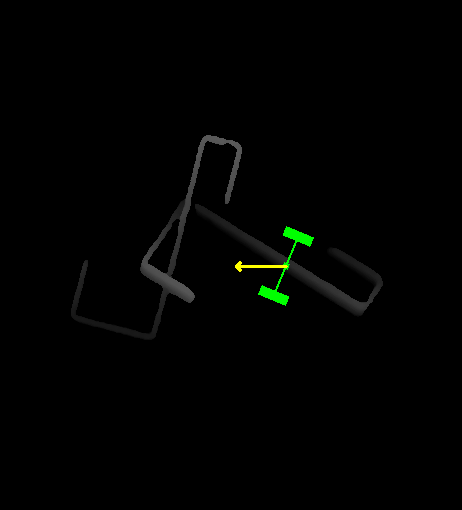
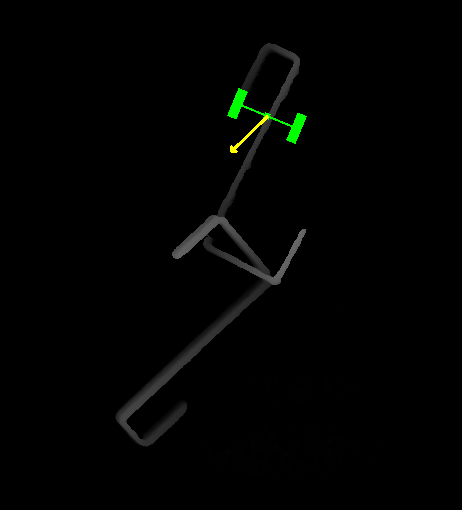
update

diff --git a/bpbot/motion/fling_actor.py b/bpbot/motion/fling_actor.py
@@ -4,7 +4,7 @@ from scipy import interpolate
 from bpbot import BinConfig
 
 class FlingActor(object):
-    def __init__(self, arm="R", filepath=None):
+    def __init__(self, filepath=None, arm='R'):
         
         cfg = BinConfig()
         cfgdata = cfg.data
@@ -18,7 +18,7 @@ class FlingActor(object):
         w_lft = (cfgdata["hand"]["left"]["open_width"]/2/1000) * 180 / math.pi
         w_rgt = (cfgdata["hand"]["right"]["open_width"]/2/1000) * 180 / math.pi
         
-        self.initpose = "0 0.80 JOINT_ABS 0 0 0 -10 -25.7 -127.5 0 0 0 23 -25.7 -127.5 -7 0 0 %.3f %.3f %.3f %.3f" % (w_rgt,-w_rgt,w_lft,-w_lft)
+        self.initpose = "0 3.00 JOINT_ABS 0 0 0 -10 -25.7 -127.5 0 0 0 23 -25.7 -127.5 -7 0 0 %.3f %.3f %.3f %.3f" % (w_rgt,-w_rgt,w_lft,-w_lft)
         self.bothhand_close = "0 0.50 JOINT_REL 0 0 0 0 0 0 0 0 0 0 0 0 0 0 0 %.3f %.3f %.3f %.3f"% (w_rgt,-w_rgt,w_lft,-w_lft) 
         self.lhand_close = "0 0.50 JOINT_REL 0 0 0 0 0 0 0 0 0 0 0 0 0 0 0 0 0 %.3f %.3f"% (w_lft,-w_lft) 
         self.rhand_close = "0 0.50 JOINT_REL 0 0 0 0 0 0 0 0 0 0 0 0 0 0 0 %.3f %.3f 0 0"% (w_rgt,-w_rgt) 
@@ -27,9 +27,9 @@ class FlingActor(object):
         self.drop_c = [0.438, 0.200]
 
         self.waypoint = [
-            [0.500, 0.400],
-            [0.510, 0.420],
-            [0.540, 0.300]
+            [0.450, 0.500],
+            [0.460, 0.520],
+            [0.490, 0.300]
         ]
 
     def fit_ellipse(self, p1, p2, freq=24):
@@ -72,10 +72,11 @@ class FlingActor(object):
 
     def get_pick_seq(self, xyz, rpy): 
         return [
-            "0 1.00 "+self.arm+"ARM_XYZ_ABS %.3f %.3f 0.250 %.1f %.1f %.1f" % (*xyz[:2], *rpy),
-            "0 1.00 "+self.arm+"ARM_XYZ_ABS %.3f %.3f %.3f %.1f %.1f %.1f" % (*xyz, *rpy),
-            "0 0.50 "+self.arm+"HAND_JNT_CLOSE 0 0 0 0 0 0", 
-            "0 1.00 "+self.arm+"ARM_XYZ_ABS %.3f %.3f 0.250 %.1f %.1f %.1f" % (*xyz[:2], *rpy)
+            "0 2.00 "+self.arm+"ARM_XYZ_ABS %.3f %.3f 0.250 %.1f %.1f %.1f" % (*xyz[:2], *rpy),
+            "0 2.00 "+self.arm+"ARM_XYZ_ABS %.3f %.3f %.3f %.1f %.1f %.1f" % (*xyz, *rpy),
+            "0 1.00 "+self.arm+"HAND_JNT_CLOSE 0 0 0 0 0 0", 
+
+            # "0 2.00 "+self.arm+"ARM_XYZ_ABS %.3f -0.010 %.3f 180.0 -80.0 -180.0" % (self.waypoint[0][0], self.waypoint[0][1])
         ]
     
     def get_place_seq(self, rpy, dest="side"):
@@ -94,7 +95,7 @@ class FlingActor(object):
                 self.initpose
             ]
 
-    def get_fling_seq(self, waypoint=None, itvl=16):
+    def get_fling_seq(self, waypoint=None, freq=16, n=1):
         """Get pulling motionfile command
 
         Args:
@@ -103,24 +104,29 @@ class FlingActor(object):
             wiggle (bool, optional): pulling with wiggling?. defaults to False.
         """
         p1, p2, p3 = self.waypoint if waypoint is None else waypoint
-        
 
-        p1 = [0.500, 0.400]
-        p2 = [0.510, 0.420]
-        p3 = [0.540, 0.300]
-        n = 16
-        tm = 3/n
-        fitted_x, fitted_z = self.fit_spline(p1, p2, p3, freq=n)
+        # tm = 3/freq
+        tm = 0.4
+        fitted_x, fitted_z = self.fit_spline(p1, p2, p3, freq=freq)
         seqs = []
-        for x, z in zip(fitted_x, fitted_z):
-            seqs.append("0 %.2f " % (tm,)+self.arm+"ARM_XYZ_ABS %.3f -0.010 %.3f 180.0 -80 -180" % (x, z))
-        return seqs
+        for i, (x, z) in enumerate(zip(fitted_x, fitted_z)):
+            if i == 0:
+                seqs.append("0 2.00 "+self.arm+"ARM_XYZ_ABS %.3f -0.010 %.3f 180.0 -80.0 -180.0" % (x, z))
+            elif i <=9: 
+                tm = 0.12
+                seqs.append("0 %.2f " % (tm,)+self.arm+"ARM_XYZ_ABS %.3f -0.010 %.3f 180.0 -80.0 -180.0" % (x, z))
+            else:
+                tm = 0.1
+                seqs.append("0 %.2f " % (tm,)+self.arm+"ARM_XYZ_ABS %.3f -0.010 %.3f 180.0 -80.0 -180.0" % (x, z))
+        # return seqs
+        return seqs*n
 
     def get_action(self, pose, waypoint=None):
         xyz = pose[:3]
         rpy = pose[3:]
 
-        seqs = self.get_pick_seq(xyz, rpy) + self.get_fling_seq(waypoint) + self.get_place_seq(rpy)
+        # seqs = self.get_pick_seq(xyz, rpy) + self.get_fling_seq(waypoint) + self.get_place_seq(rpy)
+        seqs = self.get_pick_seq(xyz, rpy) + self.get_fling_seq(waypoint, n=3)
         with open(self.filepath, 'wt') as fp:
             for s in seqs:
                 print(s, file=fp)
@@ -136,12 +142,15 @@ class FlingActor(object):
             seq.append("0 0.15 LARM_XYZ_ABS %.3f %.3f %.3f %.1f %.1f %.1f" % (*_xyz, *rpy_aft))
         return seq
 
-# actor.get_action([0.500, -0.010, 0.104, -90, -90, 90])
-actor=FlingActor("./data/motion/fling.dat")
-p1 = [0.500, 0.400]
-p2 = [0.510, 0.420]
-p3 = [0.540, 0.300]
-actor.fit_spline(p1, p2, p3)
-p1 = [0.500, 0.300]
-p2 = [0.540, 0.420]
-actor.fit_ellipse(p1=p1, p2=p2)
+if __name__ == '__main__':
+
+    actor=FlingActor(arm="R")
+    actor.get_action([0.500, -0.010, 0.134, -90, -90, 90])
+
+    # p1 = [0.500, 0.400]
+    # p2 = [0.510, 0.420]
+    # p3 = [0.540, 0.300]
+    # actor.fit_spline(p1, p2, p3)
+    # p1 = [0.500, 0.300]
+    # p2 = [0.540, 0.420]
+    # actor.fit_ellipse(p1=p1, p2=p2)

diff --git a/example/run_autopick.py b/example/run_autopick.py
@@ -17,6 +17,7 @@ from bpbot.robotcon.nxt.nxtrobot_client import NxtRobot
 
 import numpy as np
 import timeit
+import pickle
 
 N = 1
 LOG_ON = True
@@ -43,6 +44,8 @@ draw_path = os.path.join(cfg.depth_dir, "result.png")
 vis_pp_path = os.path.join(cfg.depth_dir, "pred/picknet_depth_cropped_pickbin.png")
 vis_pd_path = os.path.join(cfg.depth_dir, "pred/picknet_depth_cropped_dropbin.png")
 vis_sd_path = os.path.join(cfg.depth_dir, "pred/sepnet_depth_cropped_dropbin.png")
+score_pn_path = os.path.join(cfg.depth_dir, "pred/picknet_score.pickle")
+score_sn_path = os.path.join(cfg.depth_dir, "pred/sepnet_score.pickle")
 vis_path = os.path.join(cfg.depth_dir, "vis.png")
 
 mf_path = cfg.motionfile_path
@@ -109,6 +112,7 @@ def pick():
                 j["grasp"] = g_pick
                 j["pull"] = []
                 j["container"] = "pick"
+                j["picknet_score"] = pickle.load(open(score_pn_path, 'rb'))
 
         else: 
             print("[!] Pick bin detection failed! ")
@@ -137,6 +141,7 @@ def pick():
                 j["grasp"] = g_pick
                 j["pull"] = []
                 j["container"] = "drop"
+                j["picknet_score"] = pickle.load(open(score_pn_path, 'rb'))
 
         else: 
             if MODE == "pnsn":
@@ -148,10 +153,10 @@ def pick():
 
                 if point_array is not None:
                     p_pull_tcp, g_pull_wrist = transform_image_to_robot(g_pull, point_array, cfgdata, hand="left", container="drop",dualarm=True)
-                    v_pull_wrist = [v_pull[1], v_pull[0],0.02] # swap x and y from image to robot coordinate:w
+                    v_pull_wrist = [v_pull[1], v_pull[0],0.06] # swap x and y from image to robot coordinate:w
 
                     # v_len = is_colliding(p_pull_tcp[:2], v_pull, cfg, point_array)
-                    v_len = 0.10
+                    v_len = 0.08
 
                     print("[*] **Pull**! Grasp : (%d,%d,%.1f) -> Tcp : (%.3f,%.3f,%.3f)" % (*g_pull, *p_pull_tcp))
                     print("[*] **Pull**! Direction: (%.2f,%.2f), distance: %.3f" % (*v_pull, v_len))
@@ -187,6 +192,8 @@ def pick():
                     j["grasp"] = g_drop
                     j["pull"] = []
                 j["container"] = "drop"
+                j["picknet_score"] = pickle.load(open(score_pn_path, 'rb'))
+                j["sepnet_score"] = pickle.load(open(score_sn_path, 'rb'))
 
     viss = []
     for v, s in zip([heatmaps, vis_pb, vis_db], ["Predicted Heatmaps", "Action in Picking Bin", "Action in Dropping Bin"]):
@@ -195,6 +202,7 @@ def pick():
         viss.append(v_with_title)
     ret = cv2.hconcat(viss)
     cv2.imwrite(vis_path,ret) 
+    print(j)
 
     
     if gen_success and FOUND_CNOID: 
@@ -211,7 +219,7 @@ def pick():
             num_seq = int(len(motion_seq)/20)
             motion_seq = np.reshape(motion_seq, (num_seq, 20))
             
-            nxt.playMotionSeq(motion_seq) 
+            nxt.playMotion(motion_seq) 
 
         else:
             print("[!] Motion plannin failed ...")
@@ -219,7 +227,6 @@ def pick():
         # ----------------------------- save log ----------------------------------
         if LOG_ON:
             import shutil
-            import pickle
             tdatetime = dt.now()
             tstr = tdatetime.strftime('%Y%m%d%H%M%S')
             save_dir = "/home/hlab/Desktop/exp" 

diff --git a/bpbot/motion/pickandplace_actor.py b/bpbot/motion/pickandplace_actor.py
@@ -30,14 +30,15 @@ class PickAndPlaceActor(object):
             "0 1.00 LARM_XYZ_ABS %.3f %.3f 0.250 %.1f %.1f %.1f" % (*xyz[:2], *rpy),
             "0 0.80 LARM_XYZ_ABS %.3f %.3f %.3f %.1f %.1f %.1f" % (*xyz, *rpy),
             "0 0.50 LHAND_JNT_CLOSE 0 0 0 0 0 0",
-            "0 0.80 LARM_XYZ_ABS %.3f %.3f 0.320 %.1f %.1f %.1f" % (*xyz[:2], *rpy)
+            # "0 0.80 LARM_XYZ_ABS %.3f %.3f 0.320 %.1f %.1f %.1f" % (*xyz[:2], *rpy)
+            "0 0.80 LARM_XYZ_ABS %.3f %.3f 0.370 %.1f %.1f %.1f" % (*xyz[:2], *rpy)
         ]
 
     def get_place_seq(self, rpy, dest):
         if dest == "front":
             return [
-                "0 0.80 LARM_XYZ_ABS %.3f %.3f 0.320 %.1f %.1f %.1f" % (*self.front_c,*rpy),
-                "0 0.50 LARM_XYZ_ABS %.3f %.3f 0.250 %.1f %.1f %.1f" % (*self.front_c,*rpy),
+                "0 0.80 LARM_XYZ_ABS %.3f %.3f 0.370 %.1f %.1f %.1f" % (*self.front_c,*rpy),
+                "0 0.50 LARM_XYZ_ABS %.3f %.3f 0.350 %.1f %.1f %.1f" % (*self.front_c,*rpy),
                 "0 0.50 LHAND_JNT_OPEN",
                 self.initpose
             ]
@@ -70,8 +71,8 @@ class PickAndPlaceActor(object):
 
     def get_drop_seq(self, rpy):
         return [
-            "0 1.00 LARM_XYZ_ABS %.3f %.3f 0.350 %.1f %.1f %.1f" % (*self.drop_bin,*rpy),
-            "0 0.80 LARM_XYZ_ABS %.3f %.3f 0.300 %.1f %.1f %.1f" % (*self.drop_bin,*rpy),
+            "0 1.00 LARM_XYZ_ABS %.3f %.3f 0.370 %.1f %.1f %.1f" % (*self.drop_bin,*rpy),
+            "0 0.80 LARM_XYZ_ABS %.3f %.3f 0.320 %.1f %.1f %.1f" % (*self.drop_bin,*rpy),
             "0 0.50 LHAND_JNT_OPEN",
             self.initpose
         ]

diff --git a/bpbot/robotcon/nxt/nxtrobot_client.py b/bpbot/robotcon/nxt/nxtrobot_client.py
@@ -179,7 +179,7 @@ class NxtRobot(object):
         else:
             print("The robot_s has ejected its left handtool.")
     
-    def playMotionSeqWithFB(self, motion_seq):
+    def playMotionWithFB(self, motion_seq):
         from bpbot.binpicking import check_force, check_force_file
         import numpy as np
         m_rcvr = np.array([[1,-5.43324762,0,0,-10.00000429,-25.7000219,-127.49972519,0,0,0,-19.17583008,-62.94312106,-86.38696242,-30.22589964,60.94772867,-1.75656712,1.31780293,-1.31780293,0,0],[0.5,-5.43324762,0.,0.,-10.00000429,-25.7000219,-127.49972519,0.,0.,0.,-19.17583008,-62.94312106,-86.38696242,-30.22589964,60.94772867,-1.75656712,1.31780293,-1.31780293,0.97402825,-0.97402825],[0.8,0.,0.,0.,-9.99999792,-25.69999465,-127.49997347,0.,0.,0.,22.99999521,-25.69999465,-127.49997347,-6.99999854,0.,0.,1.31799973,-1.31799973,1.31799973,-1.31799973]])
@@ -261,7 +261,7 @@ class NxtRobot(object):
         except grpc.RpcError as rpc_error:
             print(f"[!] Robotcon failed with {rpc_error.code()}")
     
-    def playMotionSeq(self, motion_seq):
+    def playMotion(self, motion_seq):
         """
         added by xinyi: motion_seq shape = (num_seq x 20)
         including both hands open/closing
@@ -291,7 +291,7 @@ class NxtRobot(object):
         except grpc.RpcError as rpc_error:
             print(f"[!] Robotcon failed with {rpc_error.code()}")
 
-    def playSmoothMotionSeq(self, gname, motion_seq):
+    def playSmoothMotion(self, gname, motion_seq):
         """Given the complete motion_seq and play smoothly, motion must be planned without torso or head joint
 
         Args:

diff --git a/bpbot/binpicking.py b/bpbot/binpicking.py
@@ -34,8 +34,8 @@ def px2depth(pcd, cfgdata, container="pick"):
     pc_ = np.c_[pcd, np.ones(pcd.shape[0])]
     pr = np.dot(G, pc_.T).T
     gray = pr[:,2]
-    # max_h = cfgdata[container]['height']['max']
-    max_h = cfgdata[container]['height']['max']+0.025
+    max_h = cfgdata[container]['height']['max']
+    max_h = cfgdata[container]['height']['max']+0.02
     min_h = cfgdata[container]['height']['min']
     gray[gray>max_h] = min_h
     gray[gray<min_h] = min_h
@@ -354,7 +354,7 @@ def gen_motion_picksep(mf_path, pose_lft, dest, pulling=None, pose_rgt=None):
         actor_pick.get_action(pose_lft, dest=dest)
 
     elif pose_rgt is None:
-        actor_pull.get_action(pose_lft, pulling, wiggle=True)
+        actor_pull.get_action(pose_lft, pulling, wiggle=False)
     
     else:
         print("[!] Wrong type for motion generator ...")    

diff --git a/bpbot/module_picksep/picksep_server.py b/bpbot/module_picksep/picksep_server.py
@@ -24,9 +24,9 @@ class PickSepServer(psrpc.PickSepServicer):
                 "img_height": 512,
                 "img_width": 512,
                 # "pick_ckpt_folder": ["ckpt_picknet", "model_epoch_8.pth"], 
-                "pick_ckpt_folder": ["try_pick_no_augdata", "model_epoch_15.pth"], 
+                "pick_ckpt_folder": ["try_pick_no_augdata", "model_epoch_16.pth"], 
                 # epoch17 is tested, but with some redundant actions
-                "sep_ckpt_folder": ["try_sep_gauss2d_aug", "model_epoch_20.pth"],
+                "sep_ckpt_folder": ["try_sep_gauss2d_aug", "model_epoch_16.pth"],
                 # "sep_ckpt_folder": ["try_sep_mask", "model_epoch_20.pth"]
             }
         }

diff --git a/example/run_click.py b/example/run_click.py
@@ -167,7 +167,7 @@ if FOUND_CNOID:
     print(f"[*] Total {num_seq} motion sequences! ")
     motion_seq = np.reshape(motion_seq, (num_seq, 20))
 
-    nxt.playMotionSeq(motion_seq)
+    nxt.playMotion(motion_seq)
 
 # if FOUND_CNOID: 
 #     # gen_success = gen_motion_pickorsep(mf_path, [rx,ry,rz,ra], dest="drop")
@@ -181,7 +181,7 @@ if FOUND_CNOID:
 #         print(f"Total {num_seq} motion sequences! ")
 #         motion_seq = np.reshape(motion_seq, (num_seq, 21))
 
-#         # nxt.playMotionSeq(motion_seq)    
+#         # nxt.playMotion(motion_seq)    
 # # ======================= Record the data ===================s=========
 
 # end = timeit.default_timer()

diff --git a/example/run_pick_feedback.py b/example/run_pick_feedback.py
@@ -120,8 +120,8 @@ if FOUND_CNOID:
         num_seq = int(len(motion_seq)/20)
         print(f"Success! Total {num_seq} motion sequences! ")
         motion_seq = np.reshape(motion_seq, (num_seq, 20))
-        #nxt.playMotionSeq(motion_seq) 
-        nxt.playMotionSeqWithFB(motion_seq)
+        #nxt.playMotion(motion_seq) 
+        nxt.playMotionWithFB(motion_seq)
 
 # ---------------------- record data -------------------------
         # tdatetime = dt.now()

diff --git a/example/run_caging.py b/example/run_caging.py
@@ -138,7 +138,7 @@ if FOUND_CNOID:
         print(f"[*] Total {num_seq} motion sequences! ")
         motion_seq = np.reshape(motion_seq, (num_seq, 20))
 
-        nxt.playMotionSeq(motion_seq)
+        nxt.playMotion(motion_seq)
 
 # end = timeit.default_timer()
 # print("[*] Time: {:.2f}s".format(end - start))

diff --git a/example/run_pick.py b/example/run_pick.py
@@ -131,7 +131,7 @@ if FOUND_CNOID:
         print(f"Success! Total {num_seq} motion sequences! ")
         motion_seq = np.reshape(motion_seq, (num_seq, 20))
 
-        nxt.playMotionSeq(motion_seq) 
+        nxt.playMotion(motion_seq) 
 
     if LOG_ON:
         tdatetime = dt.now()

diff --git a/bpbot/robotcon/nxt/nxtrobot_mofi.py b/bpbot/robotcon/nxt/nxtrobot_mofi.py
@@ -59,8 +59,8 @@ if __name__ == "__main__":
 
     # print("[*] Start robot execution .. ")
 
-    # # nxt.playMotionSeq(motion_seq)
-    # nxt.playMotionSeq(final_seq)
+    # # nxt.playMotion(motion_seq)
+    # nxt.playMotion(final_seq)
     # print("[*] Finish! ")
 
         
